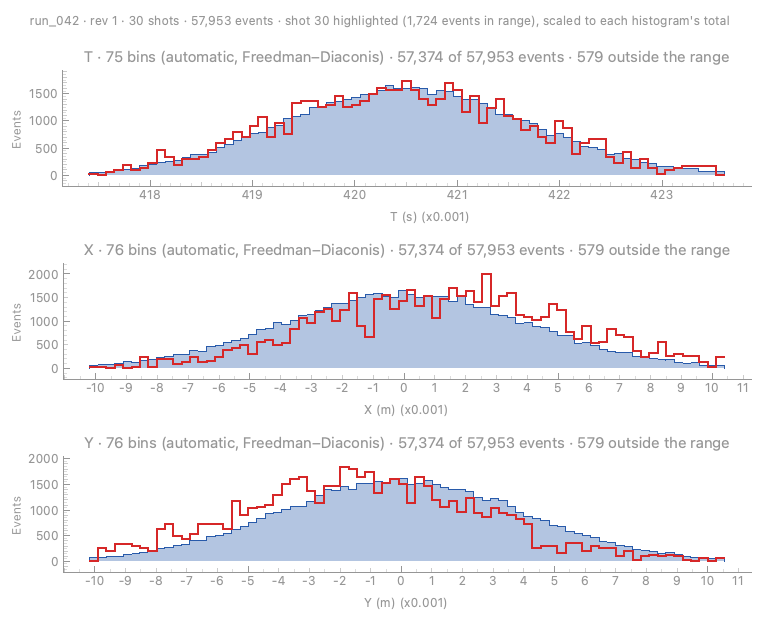
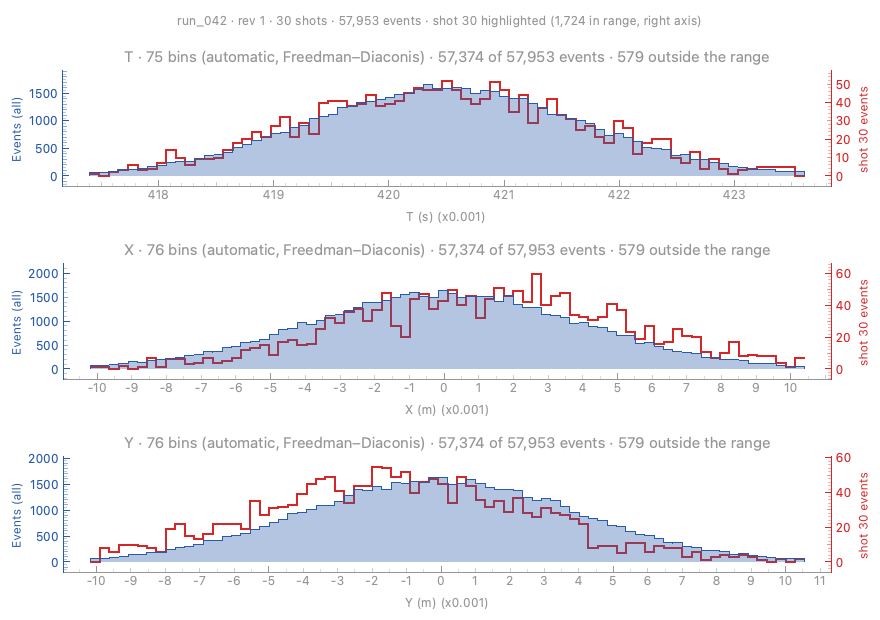
Give the histograms' newest shot its own axis on the right
Tony, after the round 2 review fixes: keep the newest-shot overlay drawn
to the histogram's scale, but read its real counts on a y axis of its own,
on the right, in the overlay's colour; the left axis keeps all the counts
in the plot's colour. Log Y works on both axes.

- basic_plots.overlay_newest: the newest shot's real counts in a second
  ViewBox (OverlayView) over each histogram, linked on x, with the right
  AxisItem attached to it (pen, tick text and label "shot N events" in
  the colour). Its y range follows the plot's divided by the histogram's
  total over the shot's (log Y: shifted by log10 of it), on every resize
  and range change, so the line sits where the scaled histogram did and
  follows zoom and pan.
- Log Y: both axes are DecadeLogAxis; the overlay curve gets its own log
  mode (items in a separate ViewBox don't inherit the plot's).
- The overlay sits on the plot's exact geometry (scenePos and size: its
  scene bounding rect is half a pixel larger, which shifted the x link,
  mapped by pixel, by one pixel where rounding differs) and is
  re-linked on x after each resize.
- OverlayView leaves the mouse to the plot below: wheel (mouse disabled),
  drag and click events are ignored, so zoom, pan and the menu work as
  before.
- A transparent copy of the scaled line stays in the plot (hidden items
  don't count) so its range and Auto hold the overlay.
- The left axis reads "Events (all)" in the plot's colour while a shot is
[…]

diff --git a/helab/scripts/standard/basic_plots.py b/helab/scripts/standard/basic_plots.py
@@ -9,6 +9,7 @@ from typing import Any, List, Mapping, Optional, cast
 import numpy as np
 import numpy.typing as npt
 import pyqtgraph as pg
+from PyQt6.QtCore import QRectF
 from PyQt6.QtWidgets import QWidget
 
 from helab.analysis.empty import empty_pane, empty_text
@@ -50,6 +51,64 @@ class DecadeLogAxis(pg.AxisItem):  # type: ignore[misc]
         minor = [v + math.log10(k) for v in range(math.floor(minVal), math.ceil(maxVal)) for k in range(2, 10)]
         self.setStyle(maxTextLevel=0)
         return [(1.0, decades), (None, [v for v in minor if minVal < v < maxVal])]
+
+
+class OverlayView(pg.ViewBox):  # type: ignore[misc]
+    """A view drawn over a plot that leaves the mouse to the plot below (its zoom, pan and menu):
+    it only follows the plot's ranges."""
+
+    def __init__(self) -> None:
+        super().__init__(enableMenu=False)
+        self.setMouseEnabled(x=False, y=False)  # Wheel events then pass to the plot below.
+
+    def mouseDragEvent(self, ev: Any, axis: Any = None) -> None:
+        ev.ignore()
+
+    def mouseClickEvent(self, ev: Any) -> None:
+        ev.ignore()
+
+
+def overlay_newest(plot: Any, edges: npt.NDArray[np.float64], counts: npt.NDArray[np.int64], scale: float,
+                   colour: tuple[int, int, int], log_y: bool, name: str) -> OverlayView:
+    """The newest shot's real counts over ``plot`` in a view of their own, linked on x, with the
+    right axis (in ``colour``) reading them. Its y range follows the plot's divided by ``scale``
+    (the histogram's total over the shot's; with log Y, shifted by log10 of it), so the line sits
+    where the shot's histogram scaled to the same total would."""
+    view = OverlayView()
+    plot.scene().addItem(view)
+    axis = plot.getAxis("right")
+    plot.showAxis("right")
+    axis.linkToView(view)
+    view.setXLink(plot.vb)
+    hex_colour = pg.mkColor(colour).name()
+    axis.setPen(pg.mkPen(colour))
+    axis.setTextPen(pg.mkPen(colour))
+    plot.setLabel("right", f"{name} events", color=hex_colour)
+    values = counts.astype(np.float64)
+    if log_y:
+        values[values <= 0] = np.nan
+    curve = pg.PlotDataItem(edges, values, stepMode="center", connect="finite", pen=pg.mkPen(colour, width=2),
+                            name=name)
+    if log_y:
+        curve.setLogMode(False, True)
+    view.addItem(curve)
+    shift = math.log10(scale) if log_y and scale > 0 else 0.0
+
+    def follow() -> None:
+        # The plot's exact geometry (its scene bounding rect is half a pixel larger, which shifts
+        # the x link, mapped by pixel, by a pixel where rounding differs).
+        view.setGeometry(QRectF(plot.vb.scenePos(), plot.vb.size()))
+        view.linkedViewChanged(plot.vb, view.XAxis)  # The x link maps by pixel: again at the new size.
+        low, high = plot.vb.viewRange()[1]
+        if log_y:
+            view.setYRange(low - shift, high - shift, padding=0)
+        else:
+            view.setYRange(low / scale, high / scale, padding=0)
+
+    plot.vb.sigResized.connect(follow)
+    plot.vb.sigYRangeChanged.connect(follow)
+    follow()
+    return view
 
 
 @dataclass(frozen=True)
@@ -195,12 +254,13 @@ class TxyHistograms(DatasetAnalysis):
         widget: Any = pg.GraphicsLayoutWidget(parent)
         widget.setBackground("w")
         events = f"{items[0].total:,} events" if items else ""
-        newest = (f" · shot {data.newest_shot} highlighted ({int(data.newest[0].sum()):,} events in range), "
-                  "scaled to each histogram's total" if data.newest_shot is not None and data.newest else "")
+        newest = (f" · shot {data.newest_shot} highlighted ({int(data.newest[0].sum()):,} in range, right axis)"
+                  if data.newest_shot is not None and data.newest else "")
         widget.addLabel(source_title(result, f"{shots_text(data.shots, data.total_shots)} · {events}{newest}"),
                         row=0, col=0)
+        overlays = []
         for row, item in enumerate(items, start=1):
-            axes = {"left": DecadeLogAxis("left")} if log_y else None
+            axes = {"left": DecadeLogAxis("left"), "right": DecadeLogAxis("right")} if log_y else None
             plot = widget.addPlot(row=row, col=0, title=histogram_title(item, item.axis in data.reversed),
                                   axisItems=axes)
             plot.setLabel("bottom", f"{item.axis} ({UNITS[AXES.index(item.axis)]})")
@@ -216,13 +276,22 @@ class TxyHistograms(DatasetAnalysis):
                 plot.addItem(pg.PlotDataItem(item.edges, item.counts, stepMode="center", fillLevel=0,
                                              pen=pg.mkPen(COLOUR), brush=(*COLOUR, 90)))
             if data.newest_shot is not None and row - 1 < len(data.newest):
-                # One shot is a small share of all: scaled to the same total, its shape compares.
-                counts_new = data.newest[row - 1].astype(np.float64)
-                if counts_new.sum() > 0:
-                    counts_new *= item.counts.sum() / counts_new.sum()
+                # One shot is a small share of all: drawn to the histogram's scale (its total over
+                # the shot's), its shape compares; its own axis on the right reads its real counts.
+                left = plot.getAxis("left")
+                left.setPen(pg.mkPen(COLOUR))
+                left.setTextPen(pg.mkPen(COLOUR))
+                plot.setLabel("left", "Events (all)", color=pg.mkColor(COLOUR).name())
+                counts_new = data.newest[row - 1]
+                scale = float(item.counts.sum()) / float(counts_new.sum()) if counts_new.sum() > 0 else 1.0
+                # The scaled line, transparent (hidden items don't count), keeps the plot's own range
+                # (and its Auto) holding the overlay.
+                scaled = counts_new * scale
                 if log_y:
-                    counts_new[counts_new <= 0] = np.nan
-                plot.addItem(pg.PlotDataItem(item.edges, counts_new, stepMode="center", connect="finite",
-                                             pen=pg.mkPen(data.colour, width=2),
-                                             name=f"shot {data.newest_shot} (newest)"))
+                    scaled = np.where(scaled > 0, scaled, np.nan)
+                plot.addItem(pg.PlotDataItem(item.edges, scaled, stepMode="center", connect="finite",
+                                             pen=pg.mkPen((0, 0, 0, 0))))
+                overlays.append(overlay_newest(plot, item.edges, counts_new, scale, data.colour, log_y,
+                                               f"shot {data.newest_shot}"))
+        widget.newest_views = overlays  # Kept with the widget (they live in its scene).
         return cast(QWidget, widget)

diff --git a/tests/test_live_plots.py b/tests/test_live_plots.py
@@ -12,6 +12,7 @@ from pathlib import Path
 from typing import Any, Iterator, List, Optional, cast
 
 import numpy as np
+import pyqtgraph as pg
 import pytest
 from PyQt6 import sip
 from PyQt6.QtGui import QCloseEvent
@@ -453,12 +454,66 @@ def test_the_histograms_overlay_the_newest_shot(qtbot: QtBot) -> None:
     for item, counts in zip(histograms.items, histograms.newest):
         assert len(counts) == len(item.counts) and counts.sum() == 50  # Every newest event, in the same bins.
         assert (counts <= item.counts).all()
-    widget = script.render(lit)
-    qtbot.addWidget(widget)
-    names = [item.name() for item in cast(Any, widget).ci.items if hasattr(item, "listDataItems")
-             for item in item.listDataItems()]
-    assert names.count("shot 3 (newest)") == 3
     assert script.describe_run("Plot", lit.parameters, view)[1].endswith("newest shot in red")
+
+
+@pytest.mark.parametrize("log_y", [False, True], ids=["linear", "log Y"])
+def test_the_newest_shot_has_its_own_axis_on_the_right(qtbot: QtBot, log_y: bool) -> None:
+    """The newest shot's real counts, in a view of their own linked on x, read on a right axis in
+    its colour; that view's y range follows the plot's divided by the histogram's total over the
+    shot's (log Y: shifted by its log10), so the line sits at the histogram's scale. The left axis
+    keeps all the counts, in the plot's colour. The overlay leaves the mouse to the plot."""
+    rng = np.random.default_rng(2)
+    data = {1: rng.normal(size=(400, 3)), 2: rng.normal(size=(400, 3)), 3: rng.normal(size=(50, 3)) * 0.1}
+    view = view_of(Dataset(PATH, "sig-axis", data, {"fingerprint": [[s, 1, 1] for s in data]}, 0))
+    script = basic_plots.TxyHistograms()
+    lit = run_now(script, view, {"highlight_newest": True, "keep_percent": 100.0, "log_y": log_y})
+    widget = cast(Any, script.render(lit))
+    qtbot.addWidget(widget)
+    widget.resize(900, 700)
+    widget.show()
+    qtbot.wait(50)
+    histograms = lit.data
+    assert len(widget.newest_views) == 3
+    for row, (item, counts, overlay) in enumerate(zip(histograms.items, histograms.newest, widget.newest_views),
+                                                    start=1):
+        plot = widget.ci.getItem(row, 0)
+        right, left = plot.getAxis("right"), plot.getAxis("left")
+        assert right.isVisible() and right.linkedView() is overlay and right.labelText == "shot 3 events"
+        assert right.pen().color().getRgb()[:3] == histograms.colour == right.textPen().color().getRgb()[:3]
+        assert left.labelText == "Events (all)" and left.pen().color().getRgb()[:3] == basic_plots.COLOUR
+        assert isinstance(right, basic_plots.DecadeLogAxis) == log_y
+        curves = [child for child in overlay.addedItems if isinstance(child, pg.PlotDataItem)]
+        assert len(curves) == 1 and curves[0].name() == "shot 3"
+        values = curves[0].yData
+        assert values is not None and np.allclose(np.nan_to_num(values, nan=0.0), counts)  # Real counts, unscaled.
+        assert curves[0].opts["logMode"] == [False, log_y]
+        scale = item.counts.sum() / counts.sum()
+        # Linked on x (the link follows the plot's own range as the window settles).
+        qtbot.waitUntil(lambda: np.allclose(overlay.viewRange()[0], plot.vb.viewRange()[0]), timeout=5_000)
+        (low, high), (overlay_low, overlay_high) = plot.vb.viewRange()[1], overlay.viewRange()[1]
+        if log_y:
+            assert np.isclose(overlay_low, low - np.log10(scale)) and np.isclose(overlay_high, high - np.log10(scale))
+        else:
+            assert np.isclose(overlay_low, low / scale) and np.isclose(overlay_high, high / scale)
+        # Zooming the plot moves the overlay with it.
+        plot.vb.setYRange(low, low + (high - low) / 2, padding=0)
+        assert np.isclose(overlay.viewRange()[1][1], (low + (high - low) / 2 - np.log10(scale)) if log_y
+                          else (low + (high - low) / 2) / scale)
+
+    class Event:
+        ignored = False
+
+        def ignore(self) -> None:
+            self.ignored = True
+
+        def delta(self) -> int:
+            return 120
+
+    for handler in ("mouseDragEvent", "mouseClickEvent", "wheelEvent"):
+        event = Event()
+        getattr(widget.newest_views[0], handler)(event)
+        assert event.ignored, handler  # Left to the plot below (its zoom, pan and menu).
 
 
 def test_a_following_plot_highlights_lives_newest_shot(

diff --git a/.ai/sessions/2026-10-19-claude-live-l3/render_live_plots.py b/.ai/sessions/2026-10-19-claude-live-l3/render_live_plots.py
@@ -138,10 +138,18 @@ def highlighted(app: QApplication) -> None:
     context = AnalysisContext("r1", "Plot", view, effective(histograms.parameters("Plot"), values),
                               histograms.get_metadata().identity())
     widget = histograms.render(AnalysisResult.of(context, "completed", histograms.compute("Plot", context)))
-    widget.resize(760, 620)
+    widget.resize(880, 620)
     widget.show()
     wait(app, lambda: True)
     save(widget, "histograms-newest-shot.png")
+    values_log = {**values, "log_y": True}
+    context = AnalysisContext("r3", "Plot", view, effective(histograms.parameters("Plot"), values_log),
+                              histograms.get_metadata().identity())
+    log_widget = histograms.render(AnalysisResult.of(context, "completed", histograms.compute("Plot", context)))
+    log_widget.resize(880, 620)
+    log_widget.show()
+    wait(app, lambda: True)
+    save(log_widget, "histograms-newest-shot-log.png")
     scatter = Scatter3D()
     context = AnalysisContext("r2", "Plot", view, effective(scatter.parameters("Plot"), values),
                               scatter.get_metadata().identity())
